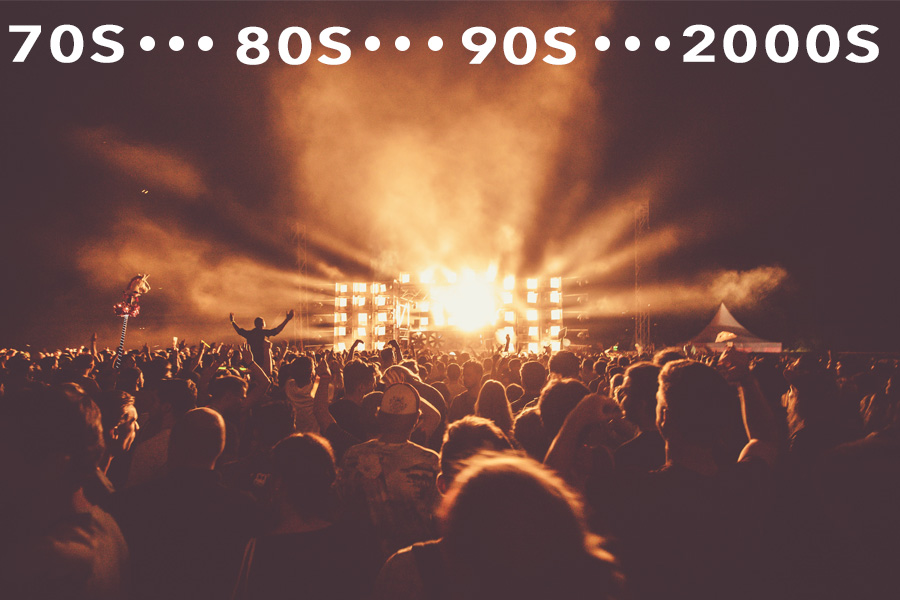
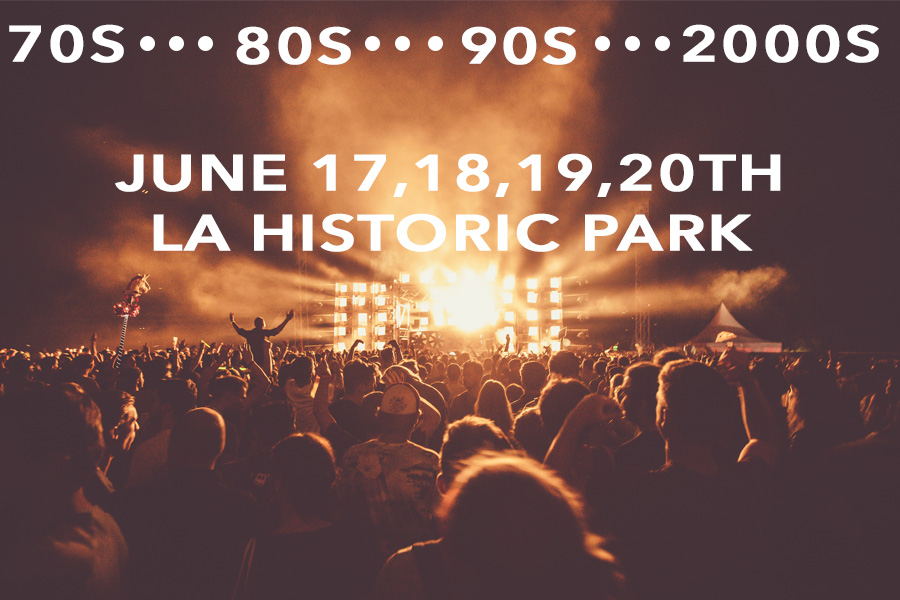
final project

Changed region(s): [[0.1556, 0.24, 0.8711, 0.42], [0.1244, 0.24, 0.3111, 0.33]]

diff --git a/Homework/final project/about2.html b/Homework/final project/about2.html
@@ -1,0 +1,83 @@
+<!DOCTYPE html>
+
+<html>
+
+    <head>
+      <title>Dancing Through the Decades</title>
+      <link rel="stylesheet" href="finalcss/desktop.css" media="only screen and (min-width:800px)">
+      <link rel="stylesheet" href="finalcss/mobile.css" media="only screen and (max-width: 800px)">
+
+      <script type="text/javascript" src="js/jquery-3.3.1.min.js"></script>
+
+      <!-- Prevent smartphones from scaling pages down -->
+      <meta name="viewport" content="initial-scale=1">
+
+    </head>
+
+    <body>
+        <header>
+          <h1 id="name"> Dancing Through the Decades <br> Fesitival</h1>
+          <nav>
+            <ul>
+              <li><a href="index.html">Home</a></li>
+              <li><a href="about2.html"> About</a></li>
+              <li><a href="lineup3.html">Lineup</a></li>
+              <li><a href="fashion4.html">Fashion</a></li>
+              <li><a href="FAQ5.html">FAQ's</a></li>
+            </ul>
+          </nav>
+        </header>
+
+          <div class="grid">
+          <div class="grid-item"><b> More about Dancing Through the Decades (DTD) Festival:</b> <br><br><br>
+            Music lovers of all decades, this is for you. Introducing, Dancing Through the Decades (DTD)!! This four day music festival will throw it back to the best decades- the 70s, 80s, 90s, and early 2000s. This is an event full of what we all love the most...nostalgia. Through star-filled lineups, fashions statements, amazing art, and artisanal food, this will be a time to remember. Group your friends together, stretch out your favorite pair of flared jeans sitting in the back of your closet, and have yourself a time. You won't want to miss out.<br>
+              Are you ready to have the time of your life?<br><br><br>
+              Tickets are $300 + service fees.<br><br>
+              CLICK HERE to buy a ticket.<br></div>
+          <div class="grid-item">
+            WHO........................You, the eclectic music lover, fashionista, and foodie<br><br><br>
+            WHAT........................Music, fashion, food, and great people- all day, every day<br><br><br>
+            WHERE........................Los Angeles Historic Park<br><br><br>
+            WHEN........................June 17th, 18th, 19th, and 20th 2020<br><br><br>
+            WHY........................Because we want to share our love for throwback music with you and get nostalgic<br><br><br>
+            HOW........................Buy a ticket, show up, and have an amazing time!!<br><br><br></div>
+          <div class="grid-item"><b>What inspired the Dancing Through the Decades (DTD) Festival?</b><br><br><br>
+            Everyone loves nostalgia. Whether it be a song we sang to every morning on the drive to school or the clothes we saw in the mall as teenagers. We wanted to bring that back to you beacuase it's always nice to reminisce on our wacky fashion choices, throwback music, and eat delicious food. We are providing all of that for you and more. <br><br><br> We want to share this experience with you, so come and join us!!
+            </div>
+
+          <footer>
+
+
+          <p id="footer"> CONTACT US!</p>
+                        <div id="recepticle"></div
+
+        </footer>
+
+        <script>
+
+        $(document).ready(function(){
+          //All jquery code should be placed below
+
+          $("#footer").css("color", "white");
+          $("#footer").css("font-family","Alegreya Sans SC',sans-serif;");
+          $("#footer").css("text-align", "center");
+          $("#footer").mouseenter(function(){
+            $("#recepticle").html("<p> Contact us with any questions or concerns. <br> <br> Phone: 123.456.7890 <br> Email: DTDfestival@aol.com <br> <br> Office Hours: <br> Monday- Friday: 8 AM-5 PM <br> Saturday-Sunday: 11 AM-3 PM <br> <br> <br> Site created by Lauren Mokhtarzadeh</p>");
+            $("#recepticle").css("color", "white");
+            $("#recepticle").css("text-align", "center");
+            $("#recepticle").css("font-family","Alegreya Sans SC',sans-serif;");
+
+          $("#footer").css("background-color", "orange");
+          });
+          $("#footer").mouseleave(function(){
+            $("#recepticle").html("");
+            $("#footer").css("background-color", "transparent");
+          });
+
+          });
+
+        </script>
+
+    </body>
+
+<html>

diff --git a/Homework/final project/index.html b/Homework/final project/index.html
@@ -16,7 +16,7 @@
 
     <body>
         <header>
-          <h1 id="name"> Dancing Through the Decades <br> Music Fesitival</h1>
+          <h1 id="name"> Dancing Through the Decades <br> Fesitival</h1>
           <nav>
             <ul>
               <li><a href="index.html">Home</a></li>
@@ -33,15 +33,15 @@
           <img src="images/festival.jpg" style="width:70%;">
           <div id="info"> Throwing it back to the best of the 70s, 80s, 90s, and 2000s with music, fashion, art, and food! Come join us at Los Angeles Historic Park to celebrate your favorite decade!!
             <br>
-            Here’s how it works- 4 days. 4 decades.
+            Here's how it works- 4 days. 4 decades.
             <br>
             Each day a different decade and everything will revolve around that decade- the music, fashion, art, and food!!! It a way to connect to all generations and bond over the different genres of music.
             <br>
             LET'S GET NOSTALGIC TOGETHER!!</div>
         </div>
 
-
           <footer>
+
 
           <p id="footer"> CONTACT US!</p>
                         <div id="recepticle"></div

diff --git a/Homework/final project/finalcss/desktop.css b/Homework/final project/finalcss/desktop.css
@@ -60,3 +60,28 @@ nav ul li a:hover{
   left: 50%;
   transform: translate(-50%, -50%);
 }
+
+
+.grid-item{
+
+border-style: double;
+border-width: 5px;
+border-color: orange;
+font-size: 20px;
+font-family: 'Alegreya Sans SC', sans-serif;
+color: white;
+text-align: center;
+
+}
+
+.grid {
+
+  display: grid;
+  grid-template-columns: 450px 450px 450px;
+  grid-gap: 20px;
+  width: 100%;
+  height: 500px;
+  grid-gap: 0.5em;
+  justify-content: center;
+
+}
